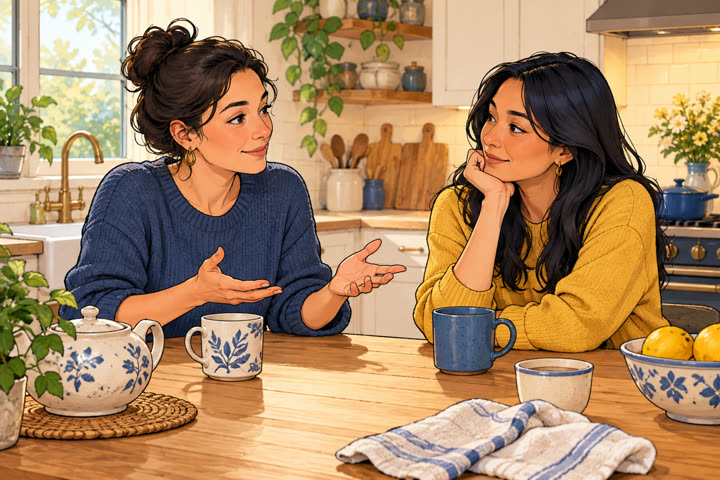
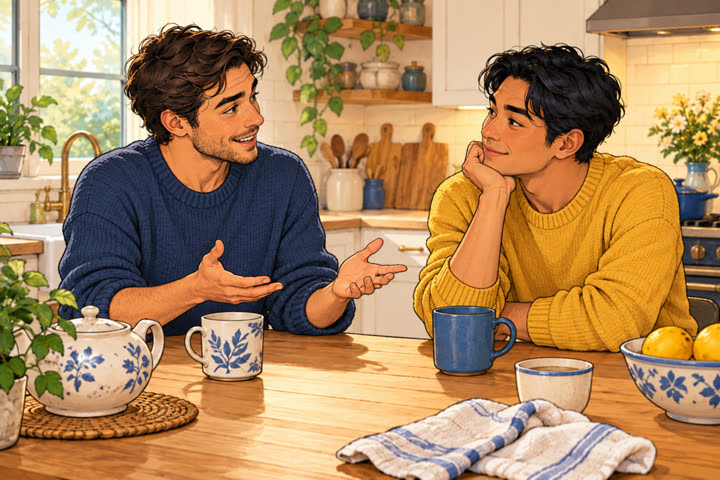
Replace C2 essay cover characters with men

diff --git a/essay-artwork.js b/essay-artwork.js
@@ -13,7 +13,7 @@
     'aea-b1-002': ['en/002-b1', 'Two coworkers review the first page of a report together.'],
     'aea-b2-002': ['en/002-b2', 'A customer asks a repair technician about the total cost beside a washing machine.'],
     'aea-c1-002': ['en/002-c1', 'Coworkers discuss different assumptions in a focused planning meeting.'],
-    'aea-c2-002': ['en/002-c2', 'A host and a visiting friend clarify expectations at a kitchen table.'],
+    'aea-c2-002': ['en/002-c2', 'Two men clarify expectations together at a kitchen table.', 'men-v2'],
     'ko-plain-a1-001': ['ko/001-a1', 'A learner joins a welcoming Korean class and greets the teacher and classmates.'],
     'ko-plain-a2-001': ['ko/001-a2', 'Classmates practice Korean together at a café after class.'],
     'ko-plain-b1-001': ['ko/001-b1', 'Members of a language group listen as a learner keeps a conversation going.'],
@@ -24,7 +24,7 @@
   (window.TalkTagAudioLessons || []).forEach(function (lesson) {
     var scene = scenes[lesson.id];
     if (!scene || lesson.type !== 'plain' || lesson.available === false) return;
-    lesson.artwork = '/assets/essay-scenes/' + scene[0] + '.jpg';
+    lesson.artwork = '/assets/essay-scenes/' + scene[0] + '.jpg' + (scene[2] ? '?v=' + scene[2] : '');
     lesson.artworkAlt = scene[1];
   });
 })();

diff --git a/audio-player.html b/audio-player.html
@@ -21,7 +21,7 @@
   <script src="audio-essays.js?v=20261009-ko-review" defer></script>
   <script src="audio-essays-002-media.js?v=20261009-ko-review" defer></script>
   <script src="audio-essays-002.js?v=20261009-ko-review" defer></script>
-  <script src="essay-artwork.js?v=20261021-en001002-v1" defer></script>
+  <script src="essay-artwork.js?v=20261021-c2-men-v2" defer></script>
   <link rel="stylesheet" href="essay-artwork.css?v=20261021-en001002-v1">
   <script src="audio-sync-data.js?v=20261009-ko-review" defer></script>
   <script src="essay-ding-media.js?v=20261020-v1" defer></script>

diff --git a/audio-library.html b/audio-library.html
@@ -21,7 +21,7 @@
   <script src="audio-essays.js?v=20261009-ko-review" defer></script>
   <script src="audio-essays-002-media.js?v=20261009-ko-review" defer></script>
   <script src="audio-essays-002.js?v=20261009-ko-review" defer></script>
-  <script src="essay-artwork.js?v=20261021-en001002-v1" defer></script>
+  <script src="essay-artwork.js?v=20261021-c2-men-v2" defer></script>
   <link rel="stylesheet" href="essay-artwork.css?v=20261021-en001002-v1">
   <script src="essay-ding-media.js?v=20261020-v1" defer></script>
   <link rel="stylesheet" href="essay-practice.css?v=20261009-002">

diff --git a/sw.js b/sw.js
@@ -1,4 +1,4 @@
-const CACHE_VERSION = 'talktag-pwa-20261021-essay-artwork-v1';
+const CACHE_VERSION = 'talktag-pwa-20261021-essay-artwork-men-v2';
 const APP_SHELL = [
   '/',
   '/index.html',
